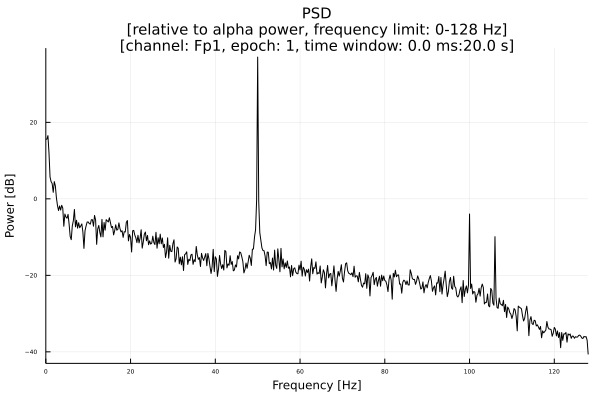
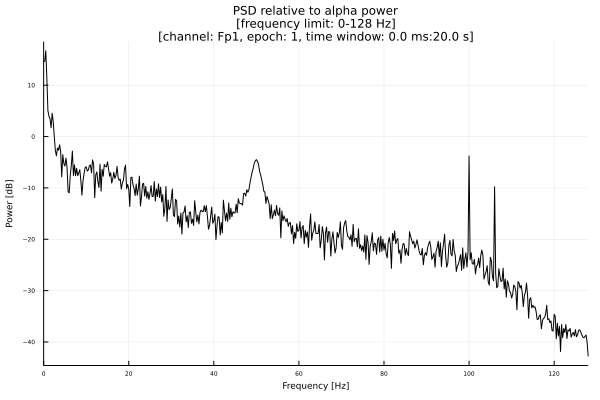
update: Tutorial.md

Changed region(s): [[0.0, 0.0, 0.99, 0.99]]

diff --git a/Tutorial.md b/Tutorial.md
@@ -621,9 +621,9 @@ eeg_plot_save(p, file_name="images/edf_spec2.png")
 
 ![edf topo :amp](images/edf_spec2.png)
 
-Plot PSD:
+Plot PSD, x and y axes are log10-scaled:
 ```julia
-p = eeg_plot_signal_psd(edf, average=true, norm=true, channel=1)
+p = eeg_plot_signal_psd(edf, norm=false, channel=1, ax=:loglog)
 eeg_plot_save(p, file_name="images/edf_psd.png")
 ```
 
